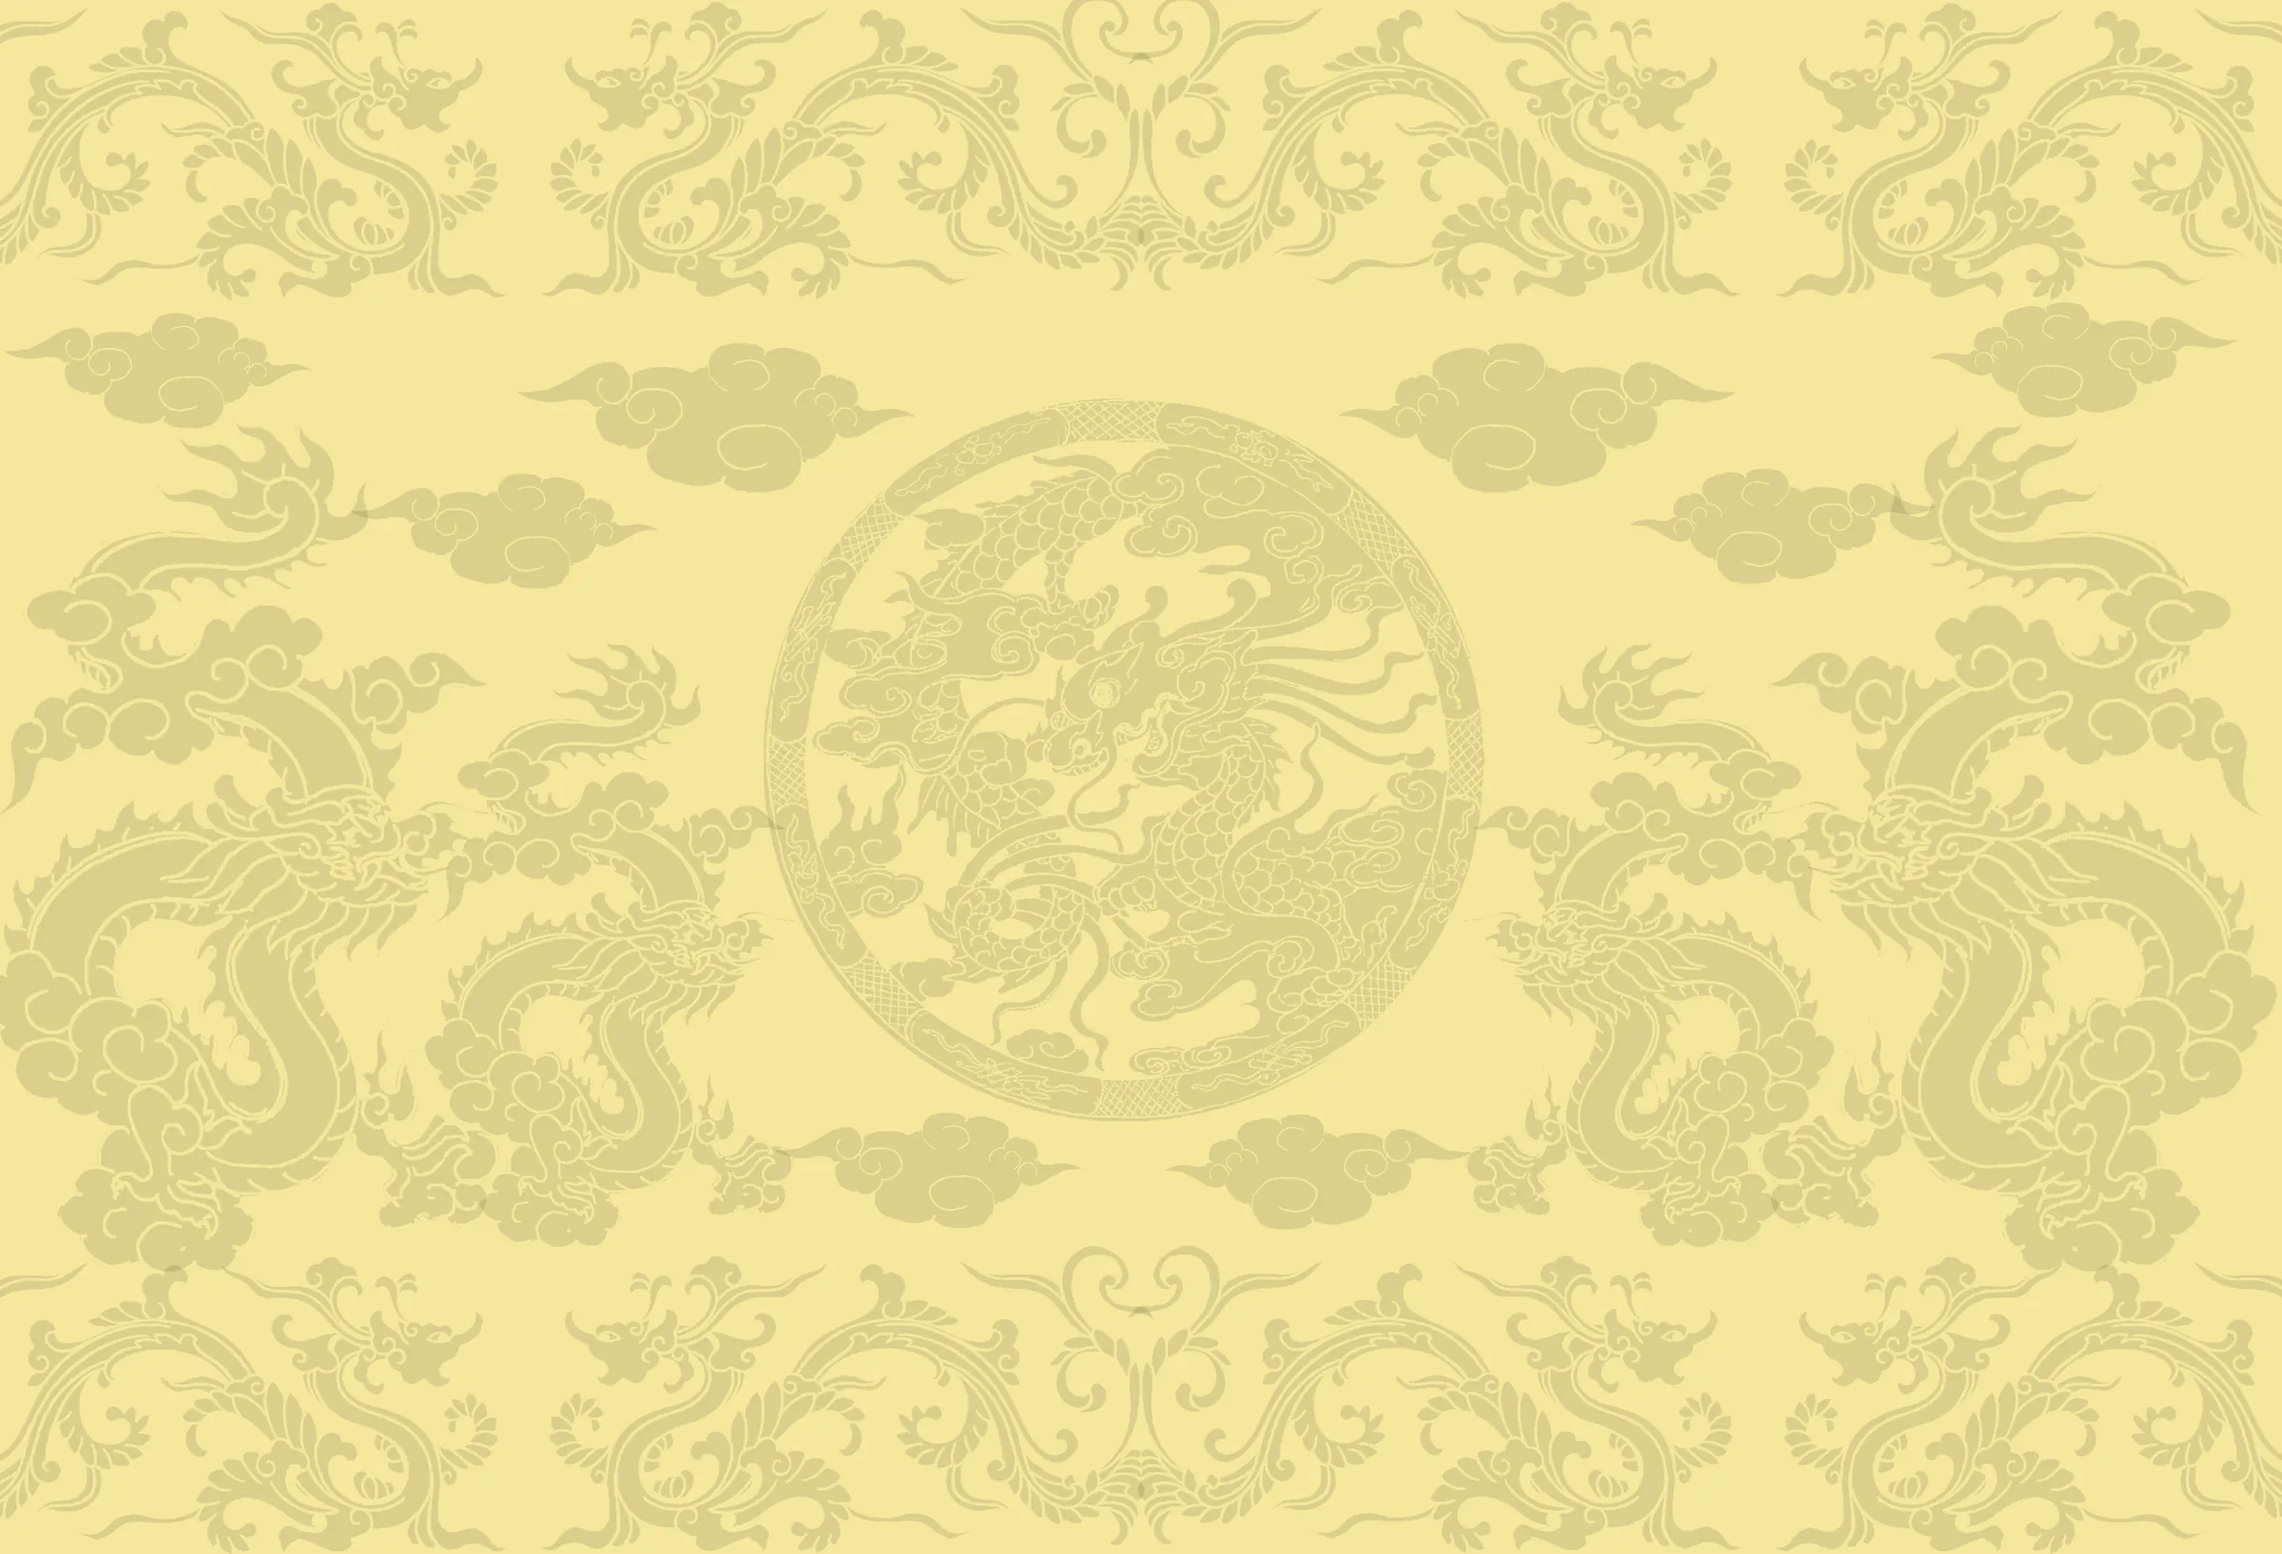
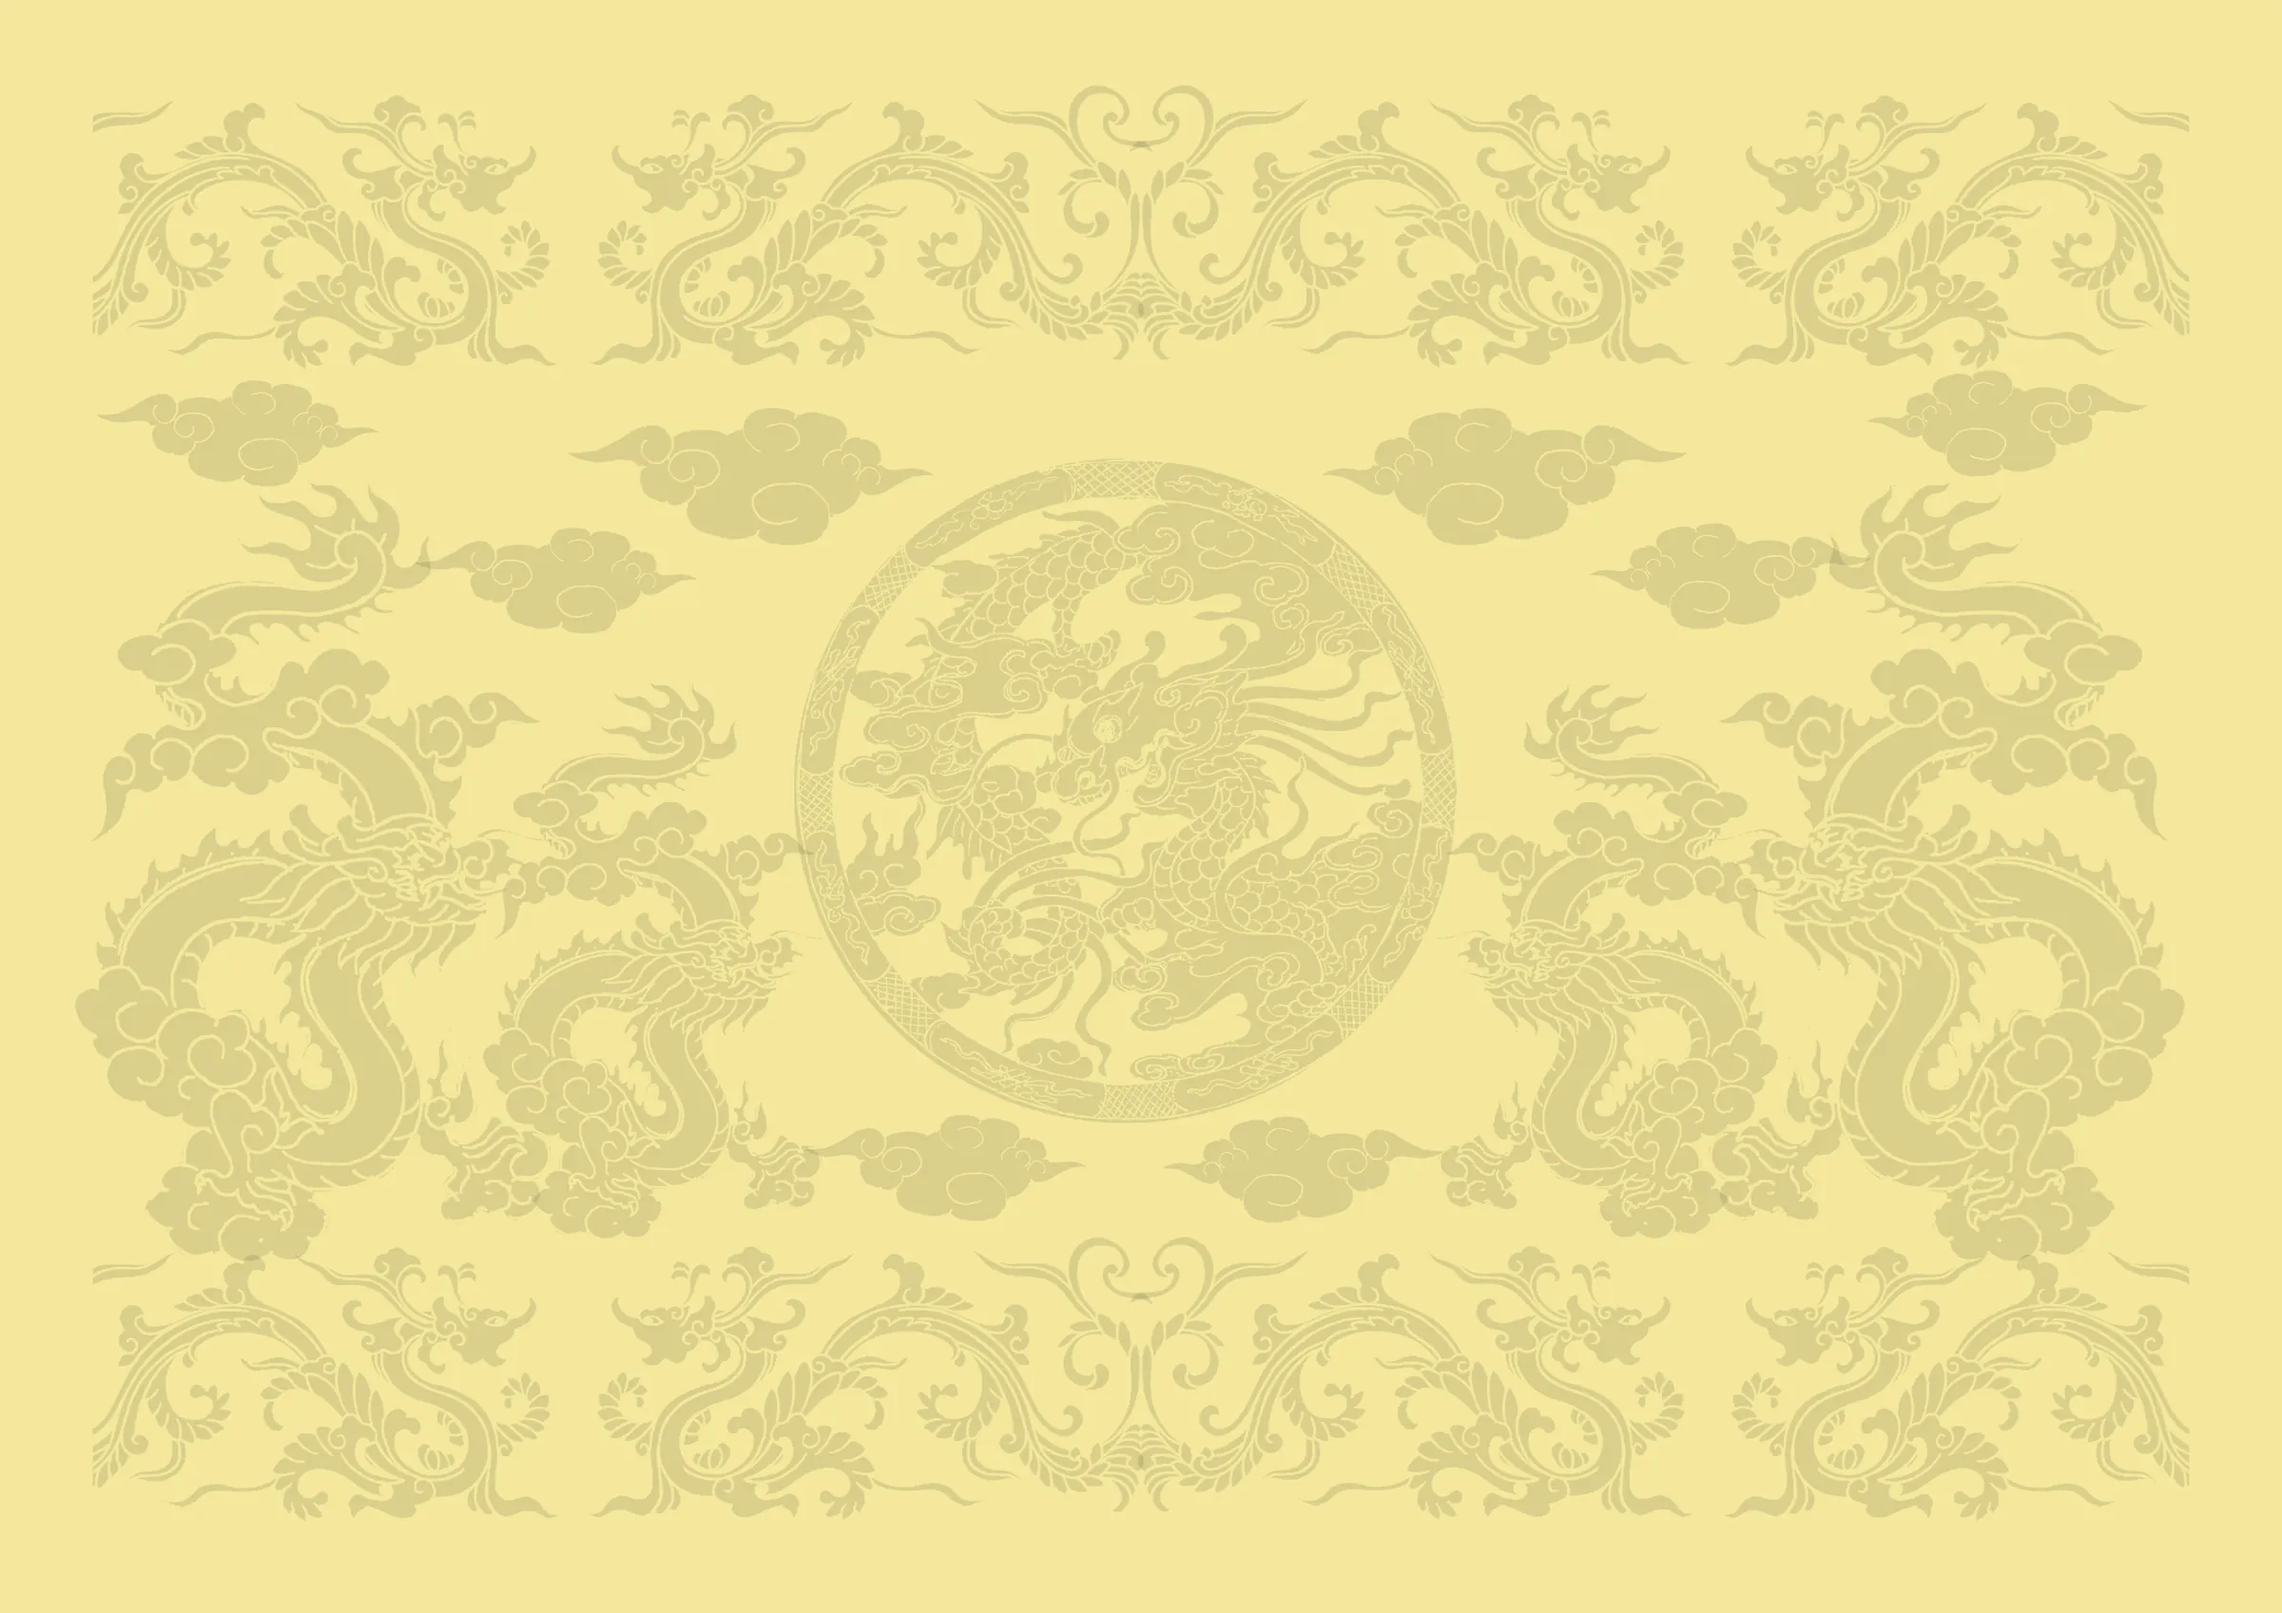
Nền phả đồ hiện trọn hình trên màn hình ngang
Ảnh nền giữ nguyên khổ (không cắt mép), màn hình ngang dùng contain — mép ảnh cùng màu nền nên liền mạch;
màn hình dọc vẫn phủ kín.

Claude-Session: https://claude.ai/code/session_01VqW1xtf5EkvJTmgr3rJrYa

Changed region(s): [[0.0, 0.0, 1.0, 0.9982]]

diff --git a/apps/web/components/tree/tree-canvas.tsx b/apps/web/components/tree/tree-canvas.tsx
@@ -165,7 +165,8 @@ export function TreeCanvas({ layout, clanId, selectedId, onSelect, focus }: Prop
     >
       {/* Nền hoàng: rồng, mây, tròn lót chìm (từ file thiết kế giaphatrangdengoc.psd) + khung son đôi — đứng yên khi kéo phả đồ */}
       <div aria-hidden className="pointer-events-none absolute inset-y-0 right-0 left-14">
-        <div className="absolute inset-0 bg-[url(/hoa-van/nen-rong-vang.webp)] bg-cover bg-center" />
+        {/* Màn hình ngang: hiện trọn bố cục (mép ảnh cùng màu nền nên hai bên liền mạch); màn hình dọc (điện thoại): phủ kín, thấy vòng rồng ở giữa */}
+        <div className="absolute inset-0 bg-[url(/hoa-van/nen-rong-vang.webp)] bg-cover bg-center bg-no-repeat landscape:bg-contain" />
         <div className="absolute inset-2 border-2 border-khung/70">
           <div className="absolute inset-1 border border-khung/40" />
         </div>
